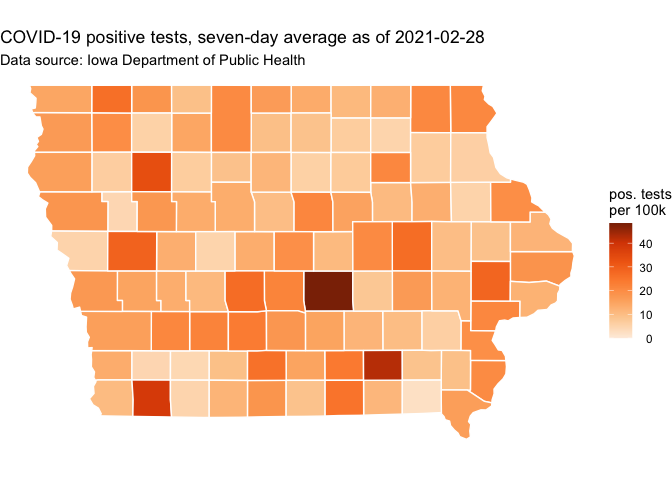
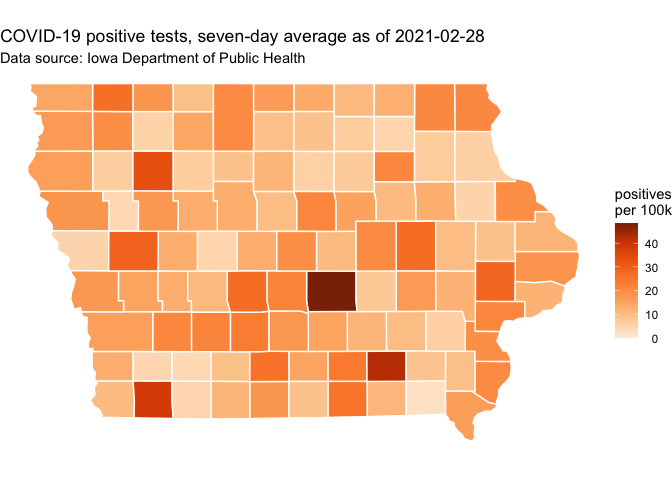
change formatting

Changed region(s): [[0.0, 0.0625, 0.875, 0.9375], [0.9062, 0.375, 1.0, 0.7188], [0.0938, 0.4688, 0.125, 0.5]]

diff --git a/README.md b/README.md
@@ -1,4 +1,4 @@
-Compiled at 2021-02-28 23:14:36 UTC
+Compiled at 2021-02-28 23:18:10 UTC
 
 <!-- README.md is generated from README.Rmd. Please edit that file -->
 
@@ -47,72 +47,72 @@ directory. Processed datasets are also available here:
 
 For the entire state, over the past week:
 
-|       date | daily pos. tests (week avg) | daily pos. tests per 100k (week avg) | week-over-week change |
-|-----------:|----------------------------:|-------------------------------------:|----------------------:|
-| 2021-02-28 |                       534.0 |                                 16.9 |                  7.6% |
-| 2021-02-27 |                       540.1 |                                 17.1 |                  6.7% |
-| 2021-02-26 |                       540.4 |                                 17.1 |                  4.2% |
-| 2021-02-25 |                       527.7 |                                 16.7 |                 -3.0% |
-| 2021-02-24 |                       524.0 |                                 16.6 |                 -8.8% |
-| 2021-02-23 |                       510.1 |                                 16.2 |                -19.4% |
-| 2021-02-22 |                       494.0 |                                 15.7 |                -25.4% |
+|       date | daily positives (week avg) | daily positives per 100k (week avg) | week-over-week change |
+|-----------:|---------------------------:|------------------------------------:|----------------------:|
+| 2021-02-28 |                      534.0 |                                16.9 |                  7.6% |
+| 2021-02-27 |                      540.1 |                                17.1 |                  6.7% |
+| 2021-02-26 |                      540.4 |                                17.1 |                  4.2% |
+| 2021-02-25 |                      527.7 |                                16.7 |                 -3.0% |
+| 2021-02-24 |                      524.0 |                                16.6 |                 -8.8% |
+| 2021-02-23 |                      510.1 |                                16.2 |                -19.4% |
+| 2021-02-22 |                      494.0 |                                15.7 |                -25.4% |
 
 For the most-populated counties:
 
-|        county | daily pos. tests (week avg) | daily pos. tests per 100k (week avg) | week-over-week change |
-|--------------:|----------------------------:|-------------------------------------:|----------------------:|
-|          Polk |                       107.4 |                                 21.9 |                 -1.3% |
-|          Linn |                        21.9 |                                  9.6 |                 -2.4% |
-|         Scott |                        21.0 |                                 12.1 |                 -3.7% |
-|       Johnson |                        18.1 |                                 12.0 |                  2.3% |
-|    Black Hawk |                        13.7 |                                 10.5 |                 15.7% |
-|      Woodbury |                        18.6 |                                 18.0 |                  3.8% |
-|       Dubuque |                        19.1 |                                 19.7 |                 18.5% |
-|         Story |                        18.7 |                                 19.3 |                 10.4% |
-|        Dallas |                        25.3 |                                 27.1 |                 16.5% |
-| Pottawattamie |                        14.7 |                                 15.8 |                 10.0% |
+|        county | daily positives (week avg) | daily positives per 100k (week avg) | week-over-week change |
+|--------------:|---------------------------:|------------------------------------:|----------------------:|
+|          Polk |                      107.4 |                                21.9 |                 -1.3% |
+|          Linn |                       21.9 |                                 9.6 |                 -2.4% |
+|         Scott |                       21.0 |                                12.1 |                 -3.7% |
+|       Johnson |                       18.1 |                                12.0 |                  2.3% |
+|    Black Hawk |                       13.7 |                                10.5 |                 15.7% |
+|      Woodbury |                       18.6 |                                18.0 |                  3.8% |
+|       Dubuque |                       19.1 |                                19.7 |                 18.5% |
+|         Story |                       18.7 |                                19.3 |                 10.4% |
+|        Dallas |                       25.3 |                                27.1 |                 16.5% |
+| Pottawattamie |                       14.7 |                                15.8 |                 10.0% |
 
 Most cases reported, per-capita:
 
-|      county | daily pos. tests (week avg) | daily pos. tests per 100k (week avg) | week-over-week change |
-|------------:|----------------------------:|-------------------------------------:|----------------------:|
-|      Jasper |                        18.0 |                                 48.4 |                -16.9% |
-|     Wapello |                        14.9 |                                 42.5 |                 22.0% |
-|        Page |                         5.9 |                                 38.8 |                -56.0% |
-| Buena Vista |                         6.6 |                                 33.5 |                103.9% |
-|    Crawford |                         4.9 |                                 28.9 |                 24.2% |
-|       Cedar |                         5.3 |                                 28.4 |                 18.9% |
-|      Dallas |                        25.3 |                                 27.1 |                 16.5% |
-|      Benton |                         6.9 |                                 26.7 |                 -5.2% |
-|     Osceola |                         1.6 |                                 26.4 |                 28.6% |
-|      Clarke |                         2.4 |                                 25.9 |                -17.2% |
+|      county | daily positives (week avg) | daily positives per 100k (week avg) | week-over-week change |
+|------------:|---------------------------:|------------------------------------:|----------------------:|
+|      Jasper |                       18.0 |                                48.4 |                -16.9% |
+|     Wapello |                       14.9 |                                42.5 |                 22.0% |
+|        Page |                        5.9 |                                38.8 |                -56.0% |
+| Buena Vista |                        6.6 |                                33.5 |                103.9% |
+|    Crawford |                        4.9 |                                28.9 |                 24.2% |
+|       Cedar |                        5.3 |                                28.4 |                 18.9% |
+|      Dallas |                       25.3 |                                27.1 |                 16.5% |
+|      Benton |                        6.9 |                                26.7 |                 -5.2% |
+|     Osceola |                        1.6 |                                26.4 |                 28.6% |
+|      Clarke |                        2.4 |                                25.9 |                -17.2% |
 
 Most growth in cases, week-over-week:
 
-|      county | daily pos. tests (week avg) | daily pos. tests per 100k (week avg) | week-over-week change |
-|------------:|----------------------------:|-------------------------------------:|----------------------:|
-| Buena Vista |                         6.6 |                                 33.5 |                103.9% |
-|    Harrison |                         2.4 |                                 17.3 |                 71.4% |
-|        Tama |                         3.4 |                                 20.3 |                 63.2% |
-|      Bremer |                         5.3 |                                 21.1 |                 63.0% |
-|       Mills |                         2.0 |                                 13.2 |                 61.6% |
-|      Hardin |                         3.6 |                                 21.2 |                 60.0% |
-|       Floyd |                         1.0 |                                  6.4 |                 55.5% |
-|   Jefferson |                         1.6 |                                  8.6 |                 50.0% |
-|  Pocahontas |                         0.4 |                                  6.5 |                 42.9% |
-|     O’Brien |                         2.7 |                                 19.7 |                 36.8% |
+|      county | daily positives (week avg) | daily positives per 100k (week avg) | week-over-week change |
+|------------:|---------------------------:|------------------------------------:|----------------------:|
+| Buena Vista |                        6.6 |                                33.5 |                103.9% |
+|    Harrison |                        2.4 |                                17.3 |                 71.4% |
+|        Tama |                        3.4 |                                20.3 |                 63.2% |
+|      Bremer |                        5.3 |                                21.1 |                 63.0% |
+|       Mills |                        2.0 |                                13.2 |                 61.6% |
+|      Hardin |                        3.6 |                                21.2 |                 60.0% |
+|       Floyd |                        1.0 |                                 6.4 |                 55.5% |
+|   Jefferson |                        1.6 |                                 8.6 |                 50.0% |
+|  Pocahontas |                        0.4 |                                 6.5 |                 42.9% |
+|     O’Brien |                        2.7 |                                19.7 |                 36.8% |
 
 Biggest decline in cases, week-over-week:
 
-|     county | daily pos. tests (week avg) | daily pos. tests per 100k (week avg) | week-over-week change |
-|-----------:|----------------------------:|-------------------------------------:|----------------------:|
-| Washington |                         1.3 |                                  5.9 |                -61.0% |
-|      Adair |                         1.6 |                                 22.0 |                -57.2% |
-|       Page |                         5.9 |                                 38.8 |                -56.0% |
-|     Taylor |                         0.3 |                                  4.7 |                -43.7% |
-|   Cherokee |                         0.7 |                                  6.4 |                -42.9% |
-|   Hamilton |                         1.4 |                                  9.7 |                -41.4% |
-|       Clay |                         0.9 |                                  5.4 |                -40.9% |
-|   Marshall |                         4.1 |                                 10.5 |                -37.9% |
-|     Howard |                         1.1 |                                 12.5 |                -37.5% |
-|    Audubon |                         0.7 |                                 13.0 |                -36.8% |
+|     county | daily positives (week avg) | daily positives per 100k (week avg) | week-over-week change |
+|-----------:|---------------------------:|------------------------------------:|----------------------:|
+| Washington |                        1.3 |                                 5.9 |                -61.0% |
+|      Adair |                        1.6 |                                22.0 |                -57.2% |
+|       Page |                        5.9 |                                38.8 |                -56.0% |
+|     Taylor |                        0.3 |                                 4.7 |                -43.7% |
+|   Cherokee |                        0.7 |                                 6.4 |                -42.9% |
+|   Hamilton |                        1.4 |                                 9.7 |                -41.4% |
+|       Clay |                        0.9 |                                 5.4 |                -40.9% |
+|   Marshall |                        4.1 |                                10.5 |                -37.9% |
+|     Howard |                        1.1 |                                12.5 |                -37.5% |
+|    Audubon |                        0.7 |                                13.0 |                -36.8% |

diff --git a/workflow/99-publish.md b/workflow/99-publish.md
@@ -1,6 +1,6 @@
 99-publish
 ================
-Compiled at 2021-02-28 23:14:29 UTC
+Compiled at 2021-02-28 23:17:53 UTC
 
 ``` r
 here::i_am(paste0(params$name, ".Rmd"), uuid = "da2d40a5-231f-404f-96ad-f86272f58669")
@@ -81,9 +81,9 @@ projthis::proj_dir_info(path_target())
     ## # A tibble: 6 x 4
     ##   path                       type         size modification_time  
     ##   <fs::path>                 <fct> <fs::bytes> <dttm>             
-    ## 1 iowa_cases.png             file      200.39K 2021-02-28 23:14:29
-    ## 2 iowa_cases_week.csv        file       14.77K 2021-02-28 23:14:29
-    ## 3 iowa_change.png            file      180.02K 2021-02-28 23:14:29
-    ## 4 iowa_county_cases_week.csv file        1.78M 2021-02-28 23:14:29
-    ## 5 iowa_county_data.csv       file        1.06M 2021-02-28 23:14:29
-    ## 6 iowa_county_meta.csv       file        6.62K 2021-02-28 23:14:29
+    ## 1 iowa_cases.png             file      202.22K 2021-02-28 23:17:54
+    ## 2 iowa_cases_week.csv        file       14.77K 2021-02-28 23:17:54
+    ## 3 iowa_change.png            file      180.02K 2021-02-28 23:17:54
+    ## 4 iowa_county_cases_week.csv file        1.78M 2021-02-28 23:17:54
+    ## 5 iowa_county_data.csv       file        1.06M 2021-02-28 23:17:54
+    ## 6 iowa_county_meta.csv       file        6.62K 2021-02-28 23:17:54

diff --git a/workflow/04-explore.md b/workflow/04-explore.md
@@ -1,6 +1,6 @@
 04-explore
 ================
-Compiled at 2021-02-28 23:13:53 UTC
+Compiled at 2021-02-28 23:17:30 UTC
 
 ``` r
 here::i_am(paste0(params$name, ".Rmd"), uuid = "490e689e-0ba3-47f9-8e87-8e1d74cdd841")
@@ -219,7 +219,7 @@ gg_iowa_cases <-
   labs(
     title = glue("COVID-19 positive tests, seven-day average as of {date}"),
     subtitle = "Data source: Iowa Department of Public Health",
-    fill = "pos. tests\nper 100k"
+    fill = "positives\nper 100k"
   )
 
 gg_iowa_cases
@@ -282,7 +282,7 @@ projthis::proj_dir_info(path_target())
     ## # A tibble: 4 x 4
     ##   path                       type         size modification_time  
     ##   <fs::path>                 <fct> <fs::bytes> <dttm>             
-    ## 1 iowa_cases.png             file      200.39K 2021-02-28 23:13:57
-    ## 2 iowa_cases_week.csv        file       14.77K 2021-02-28 23:13:57
-    ## 3 iowa_change.png            file      180.02K 2021-02-28 23:13:57
-    ## 4 iowa_county_cases_week.csv file        1.78M 2021-02-28 23:13:58
+    ## 1 iowa_cases.png             file      202.22K 2021-02-28 23:17:34
+    ## 2 iowa_cases_week.csv        file       14.77K 2021-02-28 23:17:34
+    ## 3 iowa_change.png            file      180.02K 2021-02-28 23:17:34
+    ## 4 iowa_county_cases_week.csv file        1.78M 2021-02-28 23:17:34
